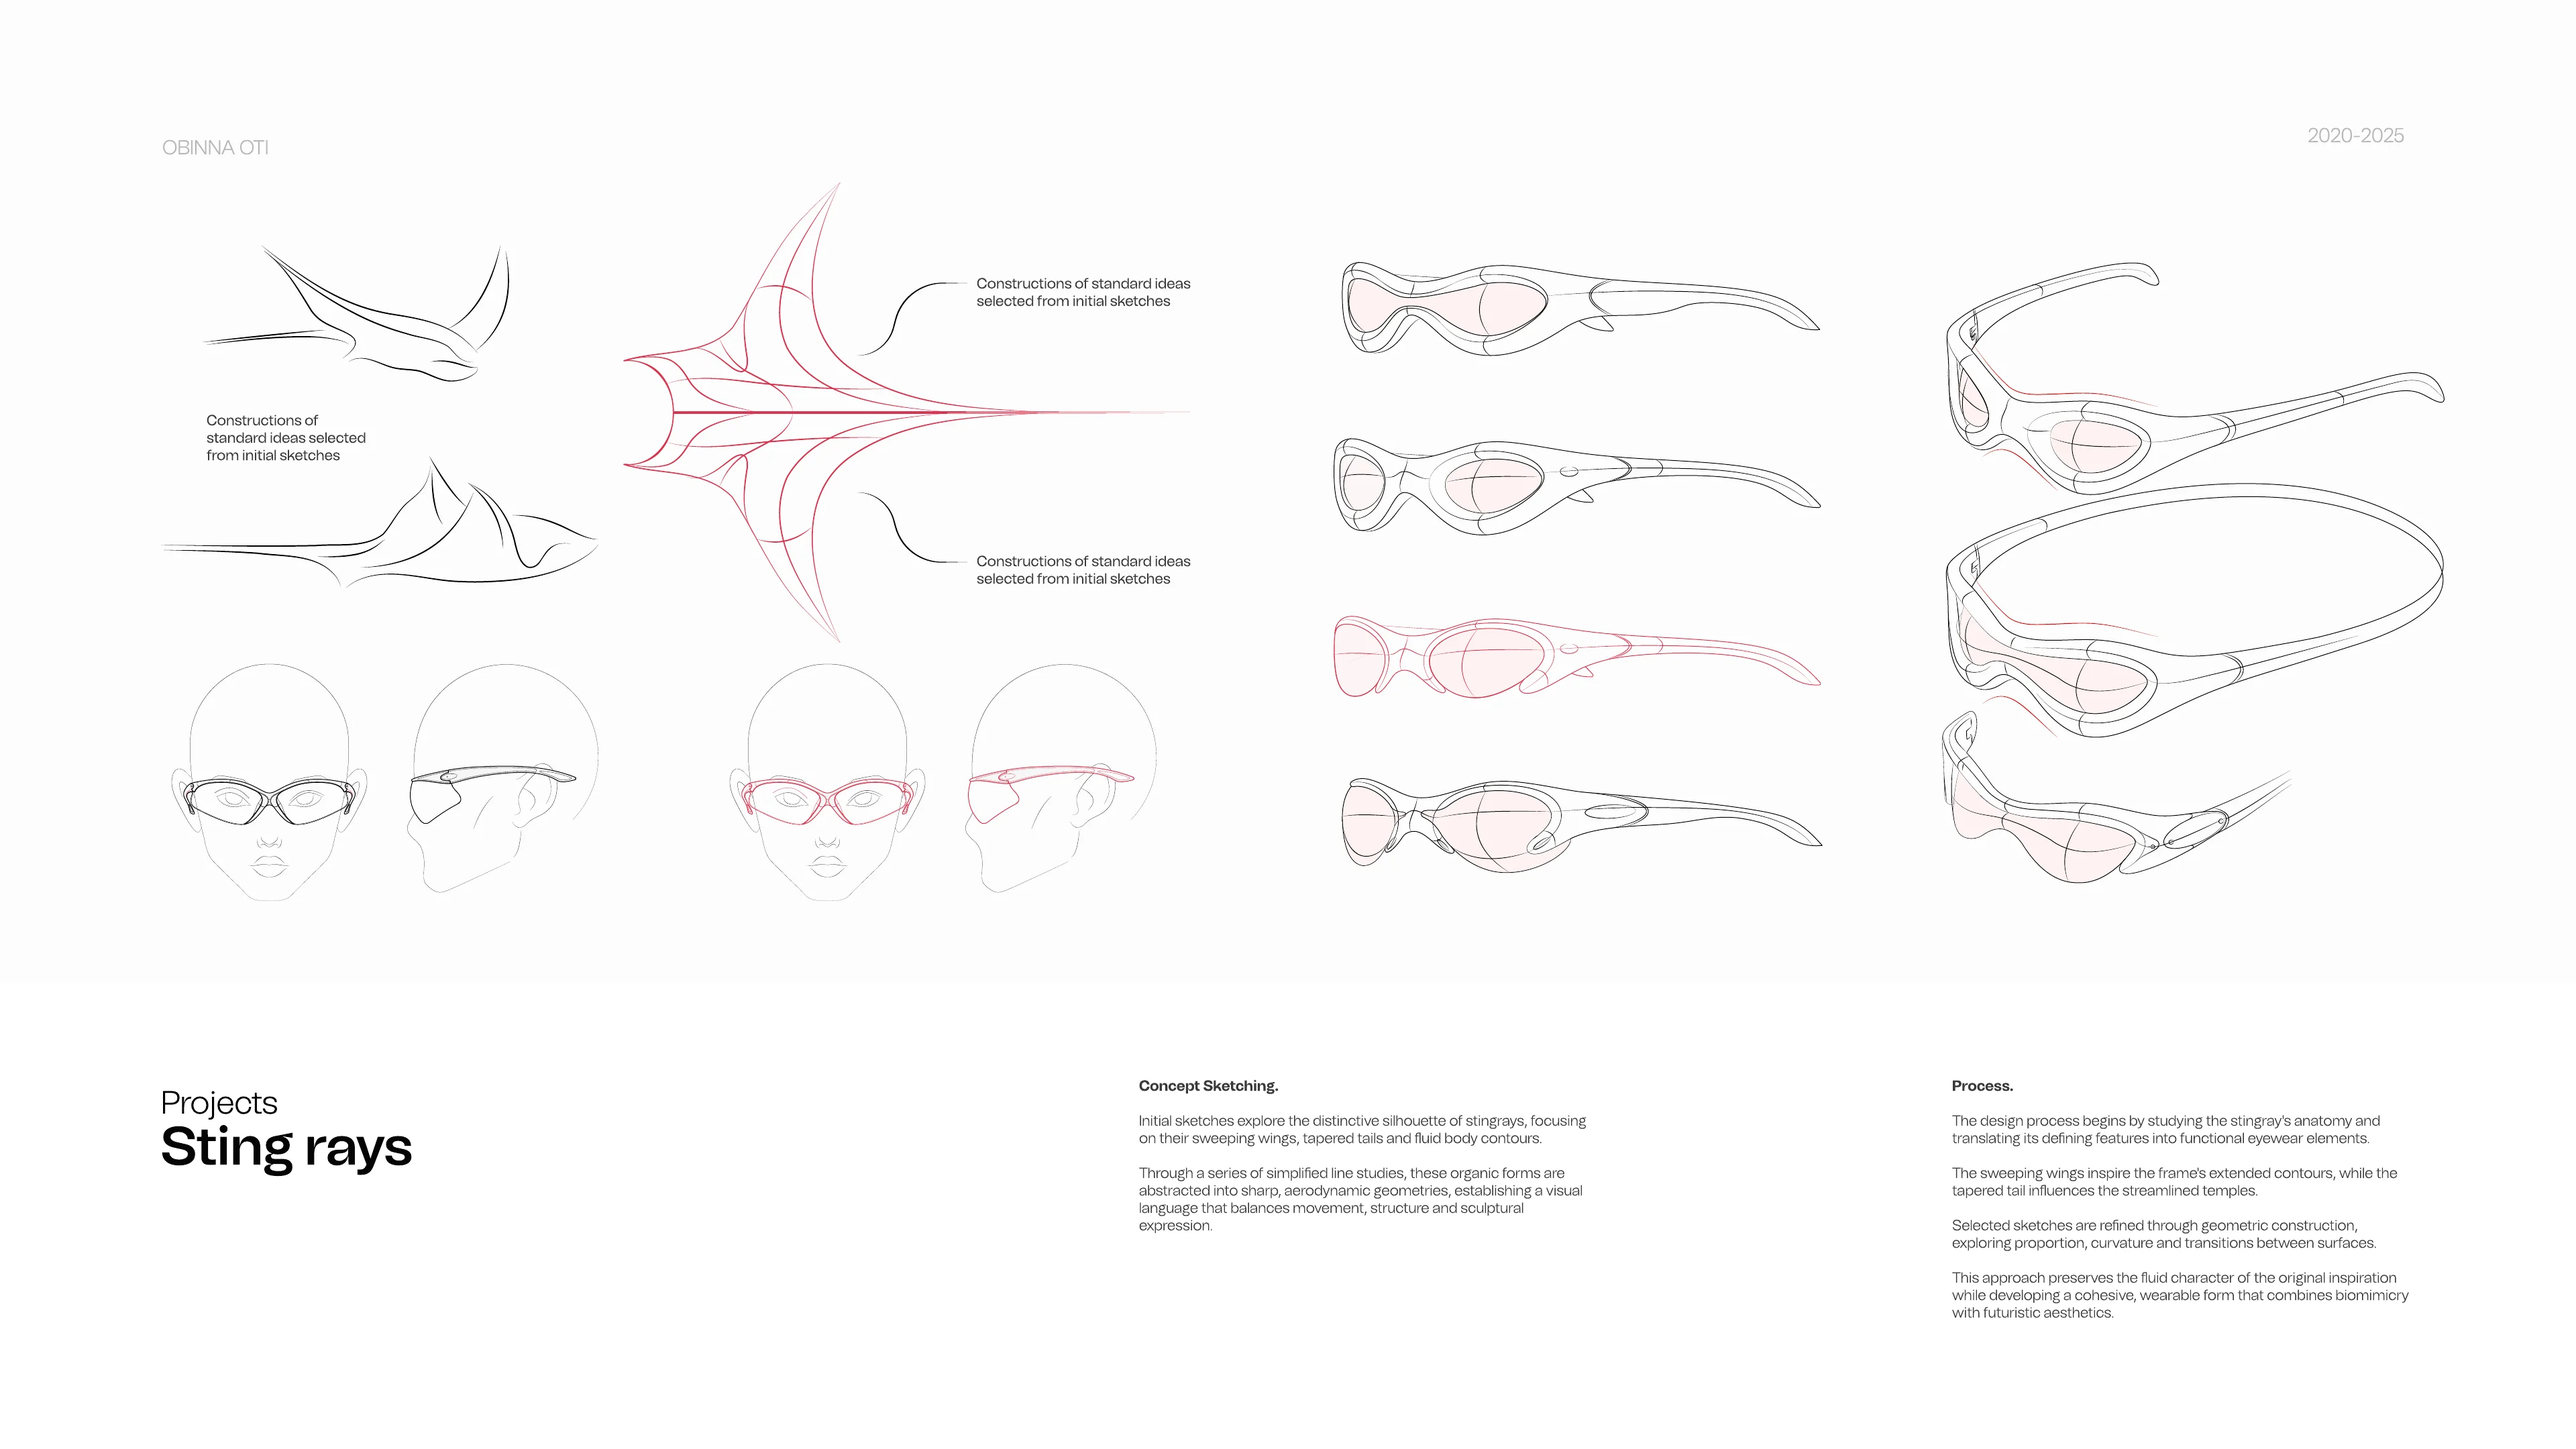
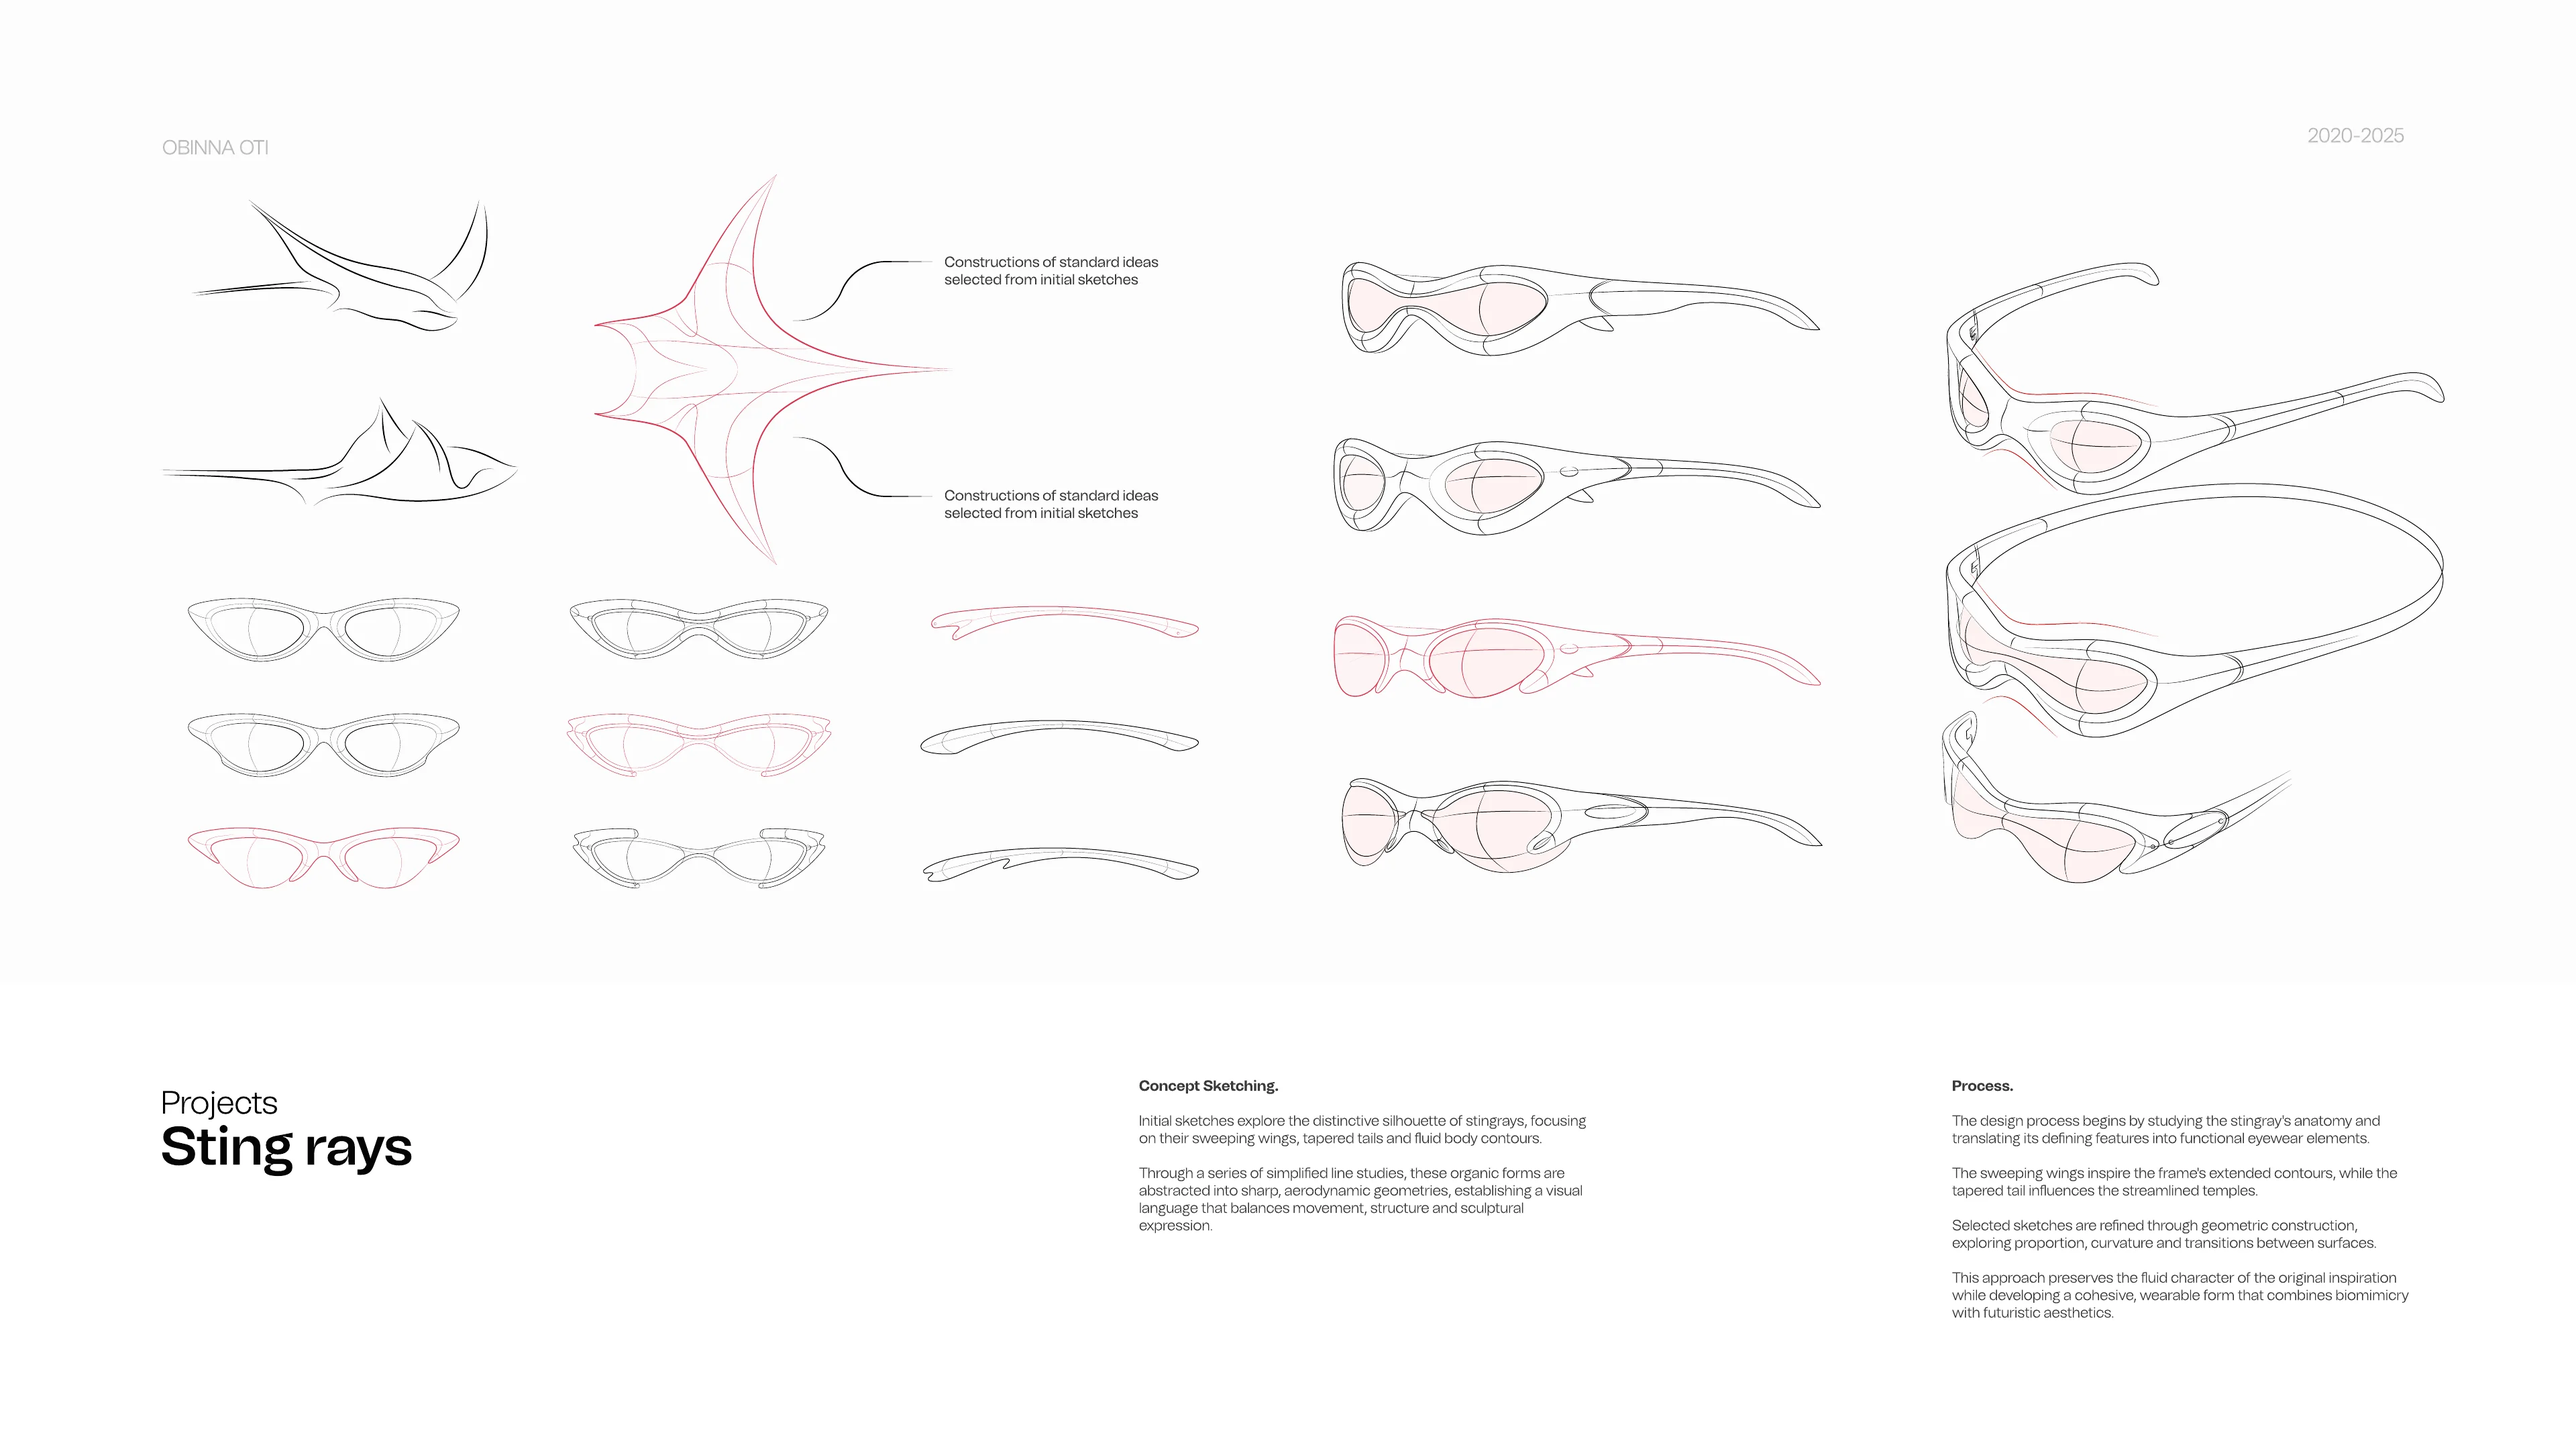
Update the Sting Rays concept sketching spread
The revised frame swaps the head constructions for front-view lens
studies and temple sketches; the copy is unchanged. Alt text follows.

Claude-Session: https://claude.ai/code/session_01XrsNxmTzmpsovjqss1yHEC

diff --git a/index.html b/index.html
@@ -201,7 +201,7 @@
     <!-- Concept sketching: the Figma frame itself, split across the spread -->
     <div class="page page--frame" data-bare>
       <div class="page__inner page__inner--frame">
-        <img class="frame frame--l" src="assets/images/sting-rays-2-sketching.webp" alt="Sting Rays, concept sketching: line studies of a stingray beside a red geometric construction of its form, head constructions with the frame, and side and perspective sketches. Concept Sketching: initial sketches explore the distinctive silhouette of stingrays, focusing on their sweeping wings, tapered tails and fluid body contours. Process: the design process begins by studying the stingray&#x27;s anatomy and translating its defining features into functional eyewear elements." draggable="false">
+        <img class="frame frame--l" src="assets/images/sting-rays-2-sketching.webp" alt="Sting Rays, concept sketching: line studies of a stingray beside a red geometric construction of its form, front-view lens studies, temple sketches, and side and perspective sketches of the frame. Concept Sketching: initial sketches explore the distinctive silhouette of stingrays, focusing on their sweeping wings, tapered tails and fluid body contours. Process: the design process begins by studying the stingray&#x27;s anatomy and translating its defining features into functional eyewear elements." draggable="false">
       </div>
     </div>
     <div class="page page--frame" data-bare>
